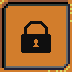
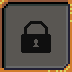
Ajout boutons mode de jeux et menu setting (il y a juste un bouton pour l'instant)

diff --git a/src/view/SelectLevel.java b/src/view/SelectLevel.java
@@ -1,14 +1,11 @@
 package view;
 
-import java.awt.Graphics2D;
 import java.awt.image.BufferedImage;
 import java.io.IOException;
 import java.awt.*;
 import javax.imageio.ImageIO;
 
 import model.State;
-
-import java.util.LinkedList;
 
 public class SelectLevel {
 	private GamePanel gp;
@@ -28,6 +25,14 @@ public class SelectLevel {
     private Button retryButton;
     private Button mainMenuButton;
 
+    // BACK BUTTON
+    private Button backBtn;
+
+
+    // BUTTONS : SETTINGS
+    private Button soundButton;
+    private Button noSoundButton;
+
 	public SelectLevel(GamePanel gp) {
 		this.gp = gp;
 		loadAssets();
@@ -44,8 +49,8 @@ public class SelectLevel {
 		int gapYLevel = 125; // Ajuste l'espacement selon le besoin
         int gapXtransition = 100; // Ajuste l'espacement selon le besoin
 
-        int startYGamemode = gp.screenHeight / 5;
-        int buttonCenterXGamemode = (gp.screenWidth / 2) - 300;
+        int startYGamemode = gp.screenHeight / 6;
+        int buttonCenterXGamemode = (gp.screenWidth / 2) - 275;
         int gapYGamemode = 150;
 
         // Initialisation des boutons de sélection de niveau
@@ -67,10 +72,10 @@ public class SelectLevel {
         }
 
         // Initialisation des boutons de sélection de mode de jeu
-        classicButton = new Button("/menu/transition/buttons/nextLevel", buttonCenterXGamemode, startYGamemode);
-        timerButton = new Button("/menu/transition/buttons/nextLevel", buttonCenterXGamemode, startYGamemode+gapYGamemode);
-        limitedButton = new Button("/menu/transition/buttons/nextLevel", buttonCenterXGamemode, startYGamemode+2*gapYGamemode);
-        builderButton = new Button("/menu/transition/buttons/nextLevel", buttonCenterXGamemode, startYGamemode+3*gapYGamemode);
+        classicButton = new Button("/menu/gamemode/buttons/classic_", buttonCenterXGamemode, startYGamemode);
+        timerButton = new Button("/menu/gamemode/buttons/timer_", buttonCenterXGamemode, startYGamemode+gapYGamemode);
+        limitedButton = new Button("/menu/gamemode/buttons/limited_", buttonCenterXGamemode, startYGamemode+2*gapYGamemode);
+        builderButton = new Button("/menu/gamemode/buttons/builder_", buttonCenterXGamemode, startYGamemode+3*gapYGamemode);
 
         // Ajustement de la position des boutons : GAME OVER
         int buttonCenterXtransition = (gp.screenWidth / 2) - 300;
@@ -80,11 +85,24 @@ public class SelectLevel {
         // Initialisation des boutons lors d'une défaite
         retryButton = new Button("/menu/transition/buttons/replay", buttonCenterXtransition, startYtransition);
         mainMenuButton = new Button("/menu/transition/buttons/mainMenu", buttonCenterXtransition, startYtransition+gapYtransition);
+
+        backBtn = new Button("/menu/previous", 15,15);
+
+        soundButton= new Button("/menu/setting/sound_", (gp.screenWidth/2)-72, (gp.screenHeight/2)-72);
+        noSoundButton = new Button("/menu/setting/nosound_", (gp.screenWidth/2)-72, (gp.screenHeight/2)-72);
     }
 	
 	public void resetButtons() {
-		for (Button e: level[gp.getGamemode()]){
-            e.setMouseOver(false);
+        if (gp.gameState == State.SELECT) {
+            for (Button e: level[gp.getGamemode()]){
+                e.setMouseOver(false);
+            }
+        }
+        if (gp.gameState == State.GAMEMODE){
+            classicButton.setMouseOver(false);
+            timerButton.setMouseOver(false);
+            limitedButton.setMouseOver(false);
+            builderButton.setMouseOver(false);
         }
 	}
 	
@@ -104,6 +122,9 @@ public class SelectLevel {
         if (gp.gameState == State.GAMEOVER){
             drawLoseWindow(g2);
         }
+        if (gp.gameState == State.SETTINGS){
+            drawSetting(g2);
+        }
 	}
 	
     public Button[][] getLevelButton() {
@@ -112,14 +133,29 @@ public class SelectLevel {
 
 	private void drawSelectLevel(Graphics2D g2) {	
         //g2.drawImage(background, pauseBackGroundXcoord, pauseBackGroundYcoord, null);
+        g2.setColor(Color.BLACK);
+        g2.setFont(new Font("Retro Gaming", Font.PLAIN, 50));
         for (int i = 0; i<level[gp.getGamemode()].length;i++){
             if (gp.getUnlock()[gp.getGamemode()][i]==true){
                 level[gp.getGamemode()][i].draw(g2);
+                if (i==0){
+                    g2.drawString(String.valueOf(i + 1), level[gp.getGamemode()][i].getX()+22, level[gp.getGamemode()][i].getY()+55);
+                }
+                else if (i<9){
+                    g2.drawString(String.valueOf(i + 1), level[gp.getGamemode()][i].getX()+15, level[gp.getGamemode()][i].getY()+55);
+                }
+                else if (i==10){
+                    g2.drawString(String.valueOf(i + 1), level[gp.getGamemode()][i].getX()+11, level[gp.getGamemode()][i].getY()+55);
+                }
+                else if (i>=9 && i<19){
+                    g2.drawString(String.valueOf(i + 1), level[gp.getGamemode()][i].getX()+2, level[gp.getGamemode()][i].getY()+55);
+                }
             }
             else {
                 locked[gp.getGamemode()][i].draw(g2);
             }
         }
+        backBtn.draw(g2);
 	}
 
     private void drawSelectMode(Graphics2D g2){
@@ -128,12 +164,23 @@ public class SelectLevel {
         timerButton.draw(g2);
         limitedButton.draw(g2);
         builderButton.draw(g2);
+        backBtn.draw(g2);
     }
 
     private void drawLoseWindow(Graphics2D g2){
         g2.drawImage(loseWindow, gp.screenWidth/2 -261, gp.screenHeight/2-400, null);
         retryButton.draw(g2);
         mainMenuButton.draw(g2);
+    }
+
+    private void drawSetting(Graphics2D g2){
+        if (gp.sound){
+            soundButton.draw(g2);
+        }
+        else {
+            noSoundButton.draw(g2);
+        }
+        backBtn.draw(g2);
     }
 
     public Button getClassicButton(){
@@ -158,5 +205,17 @@ public class SelectLevel {
 
     public Button getMainMenuButton2() {
         return mainMenuButton;
+    }
+
+    public Button getBackButton() {
+        return backBtn;
+    }
+
+    public Button getSoundButton(){
+        return soundButton;
+    }
+
+    public Button getNoSoundButton(){
+        return noSoundButton;
     }
 }

diff --git a/src/view/GamePanel.java b/src/view/GamePanel.java
@@ -1,11 +1,11 @@
 package view;
 
-import java.util.LinkedList;
 import java.io.BufferedReader;
 import java.io.FileReader;
 import java.io.IOException;
-import javax.imageio.ImageIO;
+import java.io.InputStream;
 
+import javax.imageio.ImageIO;
 import javax.swing.*;
 import java.awt.*;
 import java.awt.image.BufferedImage;
@@ -13,6 +13,7 @@ import java.awt.image.BufferedImage;
 import control.KeyHandler;
 import control.MouseHandler;
 import exception.MapException;
+import main.Main;
 import model.*;
 
 
@@ -31,7 +32,7 @@ public class GamePanel extends JPanel implements Runnable {
 	final int screenWidth = tileSize * maxScreenCol;
 	final int screenHeight = tileSize * maxScreenRow; 
 	public final int mapOffset = tileSize;
-    public static boolean sound=false;
+    public static boolean sound=true;
 	private  JButton helpButton;
 	private JLabel aideLabel;
     
@@ -48,6 +49,9 @@ public class GamePanel extends JPanel implements Runnable {
     
     private int lvl = 1;
     private boolean[][] unlocked;
+
+    public GraphicsEnvironment ge;
+    public Font retro;
 
     private int difficulty;
     private int gamemode;
@@ -81,6 +85,15 @@ public class GamePanel extends JPanel implements Runnable {
         unlocked = createUnlock();
         
         setLevel(1);
+        
+
+        try {
+            ge = GraphicsEnvironment.getLocalGraphicsEnvironment();
+            retro = Font.createFont(Font.TRUETYPE_FONT, Main.class.getResourceAsStream("/menu/Retro_Gaming.ttf"));
+            ge.registerFont(retro);
+        } catch (Exception e) {
+            e.printStackTrace();
+        }
         
         this.play = new Play(this);
     }
@@ -211,10 +224,10 @@ public class GamePanel extends JPanel implements Runnable {
                 helpButton.setVisible(true);
             }
             g2.setColor(Color.BLACK);
-            g2.setFont(new Font("Arial", Font.BOLD, 50));
-            g2.drawString("Niveau "+lvl, 375, 75);
+            g2.setFont(new Font("Retro Gaming", Font.PLAIN, 50));
+            g2.drawString("Niveau "+lvl, 340, 75);
             if (gamemode == 2){
-                g2.drawString("Coups restants : "+map.getMove(), 375, 125);
+                g2.drawString("Coups restants : "+map.getMove(), 250, 125);
             }
         }
         
@@ -233,6 +246,9 @@ public class GamePanel extends JPanel implements Runnable {
             sl.draw(g2);
         }
         else if (gameState == State.GAMEOVER){
+            sl.draw(g2);
+        }
+        else if (gameState == State.SETTINGS){
             sl.draw(g2);
         }
         helpButton.setVisible(true);

diff --git a/src/control/MouseHandler.java b/src/control/MouseHandler.java
@@ -46,9 +46,7 @@ public class MouseHandler extends MouseAdapter implements MouseListener {
 			} else if ( isIn(e, ui.getSelectBtn()) ) {
 				gp.gameState = State.SELECT;
 			} else if ( isIn(e, ui.getSettingsBtn()) ) {
-				if(gp.sound) {gp.sound=false;}
-				else {gp.sound=true;}
-				gp.gameState = State.PLAYING;
+				gp.gameState = State.SETTINGS;
 			} else if ( isIn(e, ui.getMenuBtn()) ) {
 				gp.gameState = State.MENU;
 			}
@@ -61,6 +59,9 @@ public class MouseHandler extends MouseAdapter implements MouseListener {
 					gp.setLevel(i+1);
 					gp.gameState = State.PLAYING;
 				}
+			}
+			if (isIn(e, sl.getBackButton())) {
+				gp.gameState = State.GAMEMODE;
 			}
 		}
 		
@@ -108,6 +109,9 @@ public class MouseHandler extends MouseAdapter implements MouseListener {
 				gp.play.setGameMode(GameMode.BUILDER);
 				gp.gameState = State.SELECT;
 			}
+			else if (isIn(e, sl.getBackButton())) {
+				gp.gameState = State.MENU;
+			}
 		}
 
 		else if (gp.gameState == State.GAMEOVER) {
@@ -115,6 +119,14 @@ public class MouseHandler extends MouseAdapter implements MouseListener {
 				gp.setLevel(gp.getLevel());
 			} else if (isIn(e, sl.getMainMenuButton2())) {
 				gp.gameState = State.MENU;
+			}
+		}
+
+		else if (gp.gameState == State.SETTINGS) {
+			if (isIn(e, sl.getSoundButton()) || isIn(e, sl.getNoSoundButton())){
+				gp.sound = !gp.sound;
+			} else if (isIn(e, sl.getBackButton())) {
+				gp.gameState = State.PAUSE;
 			}
 		}
 	}
@@ -158,6 +170,19 @@ public class MouseHandler extends MouseAdapter implements MouseListener {
 			gp.repaint(); 
 		}
 
+		else if (gp.gameState == State.GAMEMODE){
+			if (isIn(e, sl.getClassicButton())) {
+				sl.getClassicButton().setMouseOver(true);
+			} else if (isIn(e, sl.getTimerButton())) {
+				sl.getTimerButton().setMouseOver(true);
+			} else if (isIn(e, sl.getLimitedButton())) {
+				sl.getLimitedButton().setMouseOver(true);
+			} else if (isIn(e, sl.getBuilderButton())) {
+				sl.getBuilderButton().setMouseOver(true);
+			} else if (isIn(e, sl.getBackButton())) {
+				sl.getBackButton().setMouseOver(true);
+			}
+		}
 	}
 
 	@Override
@@ -179,6 +204,10 @@ public class MouseHandler extends MouseAdapter implements MouseListener {
 			ui.getMainMenuButton().setMouseOver(false);
 			ui.getRetryButton().setMouseOver(false);
 			gp.repaint(); 
+		}
+
+		else if (gp.gameState == State.GAMEMODE){
+			sl.resetButtons();
 		}
 	}
 

diff --git a/src/model/Play.java b/src/model/Play.java
@@ -59,12 +59,12 @@ public class Play {
 	        if (gp.map.parcoursProfondeurRec()) {
 	        	gp.repaint();
 	            gp.unlockNextLvl(gp.getLevel());
-	            if(gp.sound) Cell.playSound("res/pipes/win.wav");
 	            try {
 					gp.getGameThread().sleep(300);
 				} catch (InterruptedException e) {
 					e.printStackTrace();
 				}
+				if(gp.sound) Cell.playSound("res/pipes/win.wav");
 	            gp.gameState = State.TRANSITION;
 	        }
 	        gp.map.resetCells();
@@ -81,20 +81,21 @@ public class Play {
 		if (gp.map != null) {
 	        if (gp.map.parcoursProfondeurRec()) {
                 gp.repaint();
-	                gp.unlockNextLvl(gp.getLevel());
-	                gp.setLevel(gp.getLevel());
-	                if(gp.sound) Cell.playSound("res/pipes/win.wav");
-	                try {
-						gp.getGameThread().sleep(300);
-					} catch (InterruptedException e) {
-						e.printStackTrace();
-					}
-	                gp.gameState = State.TRANSITION;
+	            gp.unlockNextLvl(gp.getLevel());
+	            try {
+					gp.getGameThread().sleep(300);
+				} catch (InterruptedException e) {
+					e.printStackTrace();
+				}
+				if(gp.sound) Cell.playSound("res/pipes/win.wav");
+	            gp.gameState = State.TRANSITION;
 	        }
+			
 	        else if (gp.map.getMove() <= 0) {
 				gp.gameState = State.GAMEOVER;
 				gp.repaint(); 
 	    	}
+			//gp.map.resetCells();
 		}
 	}
 	

diff --git a/src/view/UserInterface.java b/src/view/UserInterface.java
@@ -35,7 +35,6 @@ public class UserInterface {
 	private Button menuBtn;
 	private Button selectBtn;
 	private Button settingsBtn;
-
 	
     public Object getNextLevelButton;
 	

diff --git a/src/model/Map.java b/src/model/Map.java
@@ -265,7 +265,7 @@ public class Map {
 				res += f;
 			}
 		}
-		return res+20;
+		return (int) Math.round(res*1.5);
 	}
 
 }
